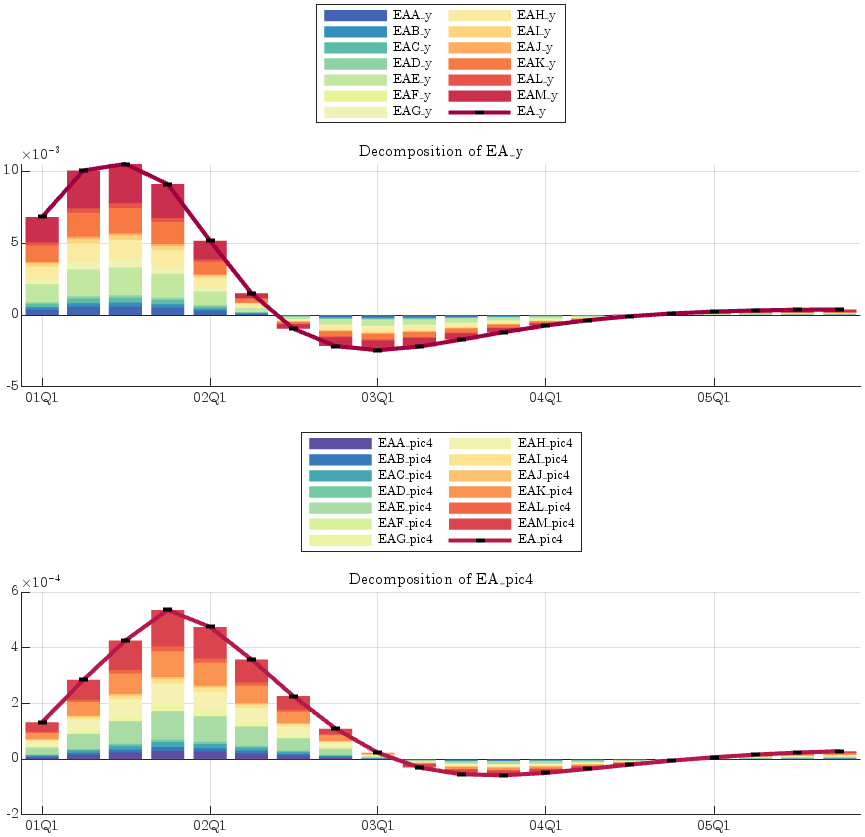
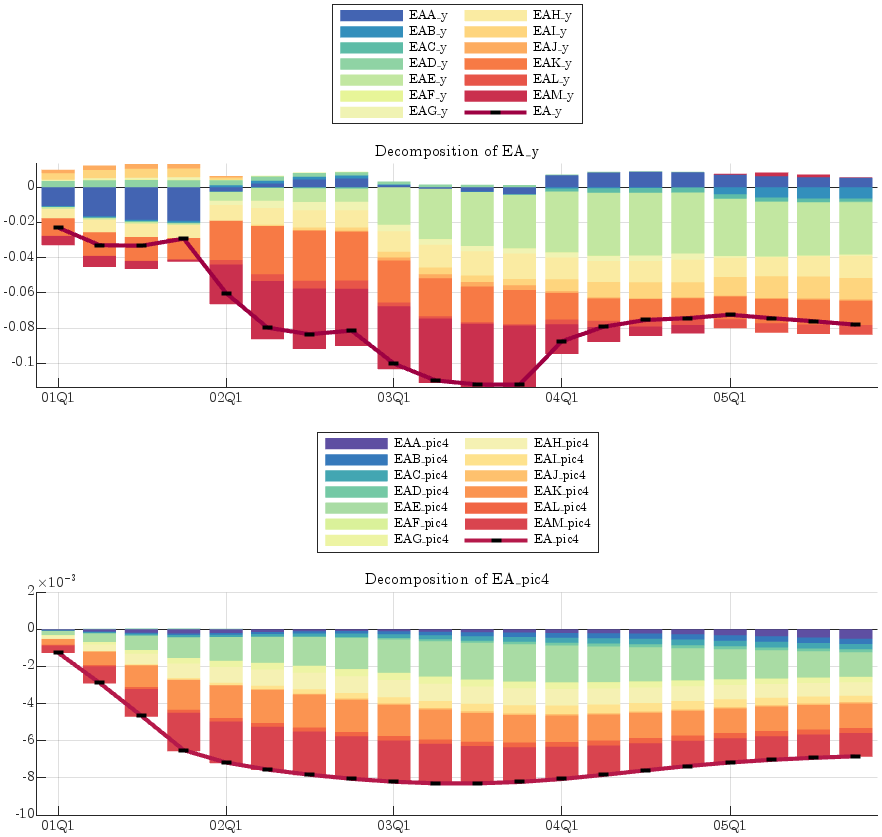
Simulating long SGP sequence [0h34m34s, for 100 periods]

diff --git a/eagleParsingTemp/runFiscalShocks.m b/eagleParsingTemp/runFiscalShocks.m
@@ -29,7 +29,7 @@ sgpShocks = load(fullfile(project_path, 'databases', 'CalcsDb_V_20210915_1135.ma
 sgpShocks.CalcsDb.
 
 %% deterministic simulation
-dynare('shock_eab_gy1.mod',  sprintf('-I%s/%s/submodules', project_path, 'eagleParsingTemp'), 'savemacro', 'json=compute');
+dynare('shock_eab_gy1.mod',  sprintf('-I%s/%s/submoduleKrzys', project_path, 'eagleParsingTemp'), 'savemacro', 'json=compute');
 
 %% analying the output of the simulation
 fiscalSimOutput = load(fullfile(project_path, 'eagleParsingTemp', 'modFiles', 'shock_eab_gy1', 'Output', 'shock_eab_gy1_results.mat'));
